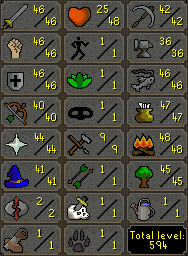
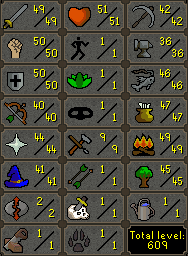
new osrs stats update

diff --git a/osrs-stats/index.html b/osrs-stats/index.html
@@ -175,7 +175,7 @@
          <br><p></p>
          <p style="font-family:monospace; letter-spacing:0px; opacity:1.0; font-size:16.5px;">
          -<br>
-         LAST UPDATED: Oct 29th 2024 <sup><sub>(been a while? ask me to update this page either in-game or at TheNovimatrem@protonmail.ch)
+         LAST UPDATED: Oct 14th 2025 <sup><sub>(been a while? ask me to update this page either in-game or at TheNovimatrem@protonmail.ch)
          </sub></sup><br>-
          </p>
          <br><p></p>
